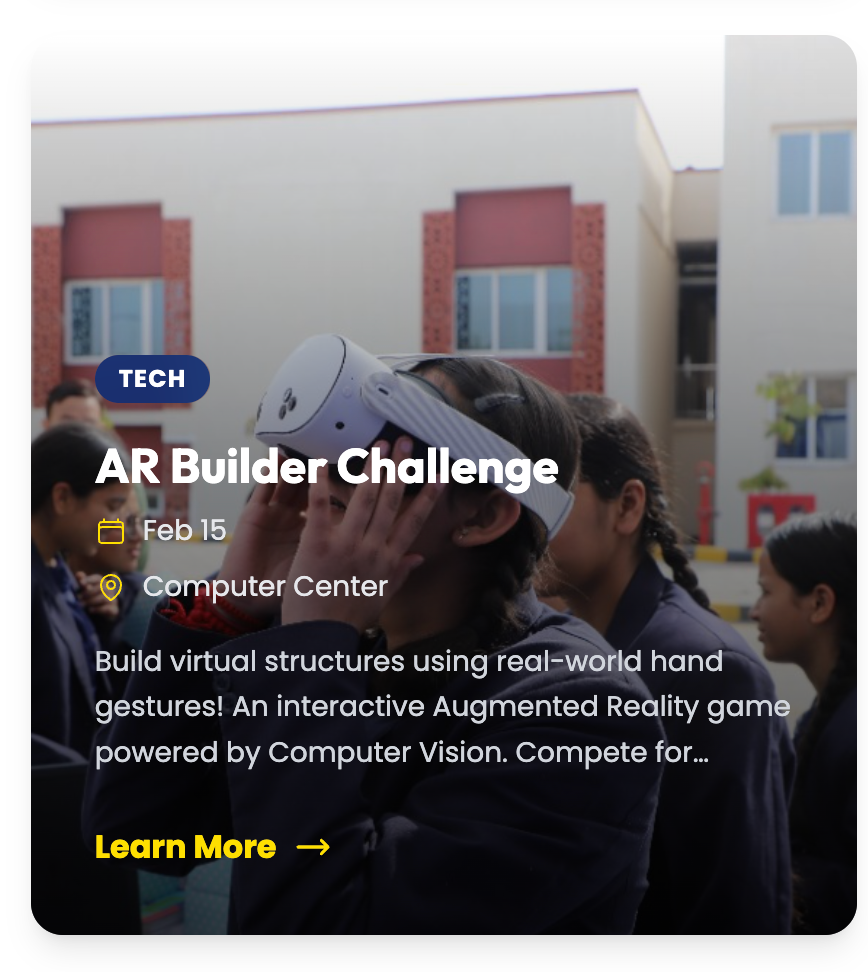
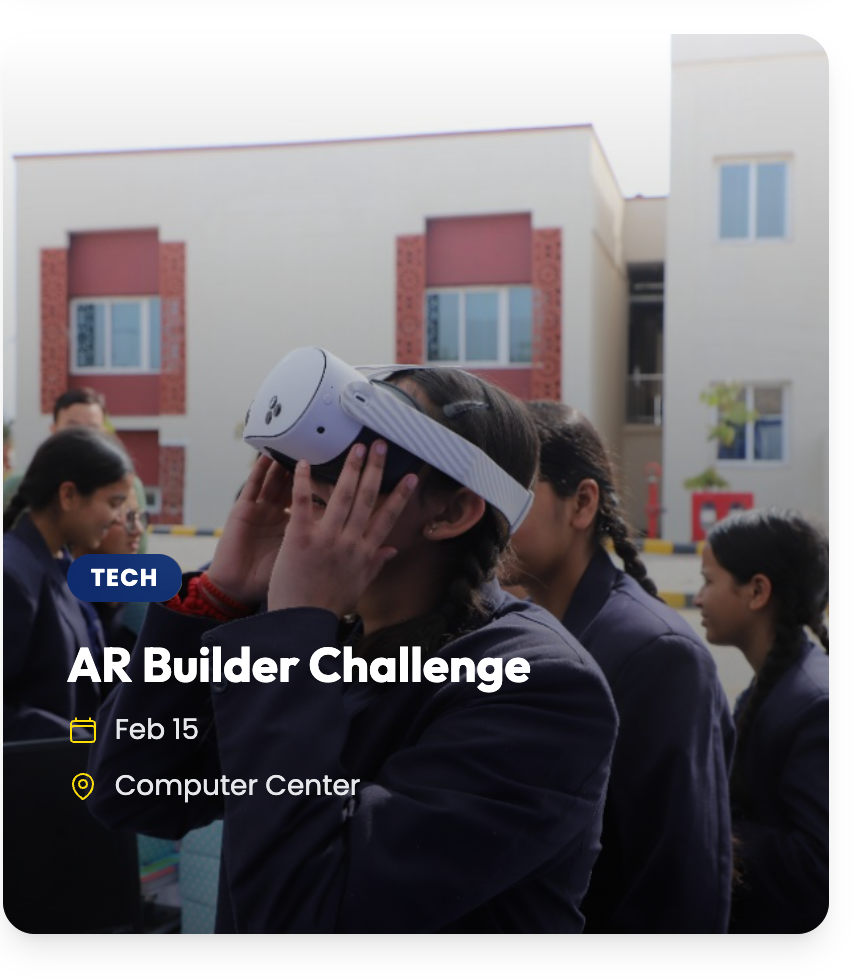
improved the event highlight section

diff --git a/src/components/Events.tsx b/src/components/Events.tsx
@@ -62,41 +62,45 @@ export default function Events() {
                             <div className="absolute inset-0 bg-gradient-to-t from-black/90 via-black/50 to-transparent opacity-60 transition-opacity duration-500 group-hover:opacity-80"></div>
 
                             {/* Content */}
-                            <div className="absolute bottom-0 left-0 right-0 p-8 text-white transition-transform duration-500 translate-y-[100px] group-hover:translate-y-0">
-
-                                <div className="mb-4 flex items-center gap-3">
-                                    <span className={`rounded-full px-3 py-1 text-xs font-bold uppercase tracking-wider backdrop-blur-md ${event.category === 'Arts' ? 'bg-brics-green/80 text-white' :
+                            {/* Content */}
+                            <div className="absolute bottom-0 left-0 right-0 p-8 text-white z-20">
+                                <div className="transform transition-transform duration-500 group-hover:-translate-y-2">
+                                    <div className="mb-3 flex items-center gap-3">
+                                        <span className={`rounded-full px-3 py-1 text-xs font-bold uppercase tracking-wider backdrop-blur-md ${event.category === 'Arts' ? 'bg-brics-green/80 text-white' :
                                             event.category === 'Tech' ? 'bg-brics-blue/80 text-white' :
                                                 'bg-brics-yellow/80 text-black'
-                                        }`}>
-                                        {event.category}
-                                    </span>
-                                </div>
-
-                                <h3 className="mb-2 text-2xl font-bold leading-tight">
-                                    {event.title}
-                                </h3>
-
-                                <div className="mb-4 space-y-2 text-sm text-gray-200">
-                                    <div className="flex items-center gap-2">
-                                        <CalendarIcon className="h-4 w-4 text-brics-yellow" />
-                                        <span>{event.date}</span>
+                                            }`}>
+                                            {event.category}
+                                        </span>
                                     </div>
-                                    <div className="flex items-center gap-2">
-                                        <MapPinIcon className="h-4 w-4 text-brics-yellow" />
-                                        <span>{event.location}</span>
+
+                                    <h3 className="mb-2 text-2xl font-bold leading-tight drop-shadow-md">
+                                        {event.title}
+                                    </h3>
+
+                                    <div className="mb-4 space-y-2 text-sm text-gray-200 font-medium">
+                                        <div className="flex items-center gap-2">
+                                            <CalendarIcon className="h-4 w-4 text-brics-yellow" />
+                                            <span>{event.date}</span>
+                                        </div>
+                                        <div className="flex items-center gap-2">
+                                            <MapPinIcon className="h-4 w-4 text-brics-yellow" />
+                                            <span>{event.location}</span>
+                                        </div>
                                     </div>
-                                </div>
 
-                                <div className="opacity-0 transition-opacity duration-500 delay-100 group-hover:opacity-100">
-                                    <p className="mb-6 text-sm leading-relaxed text-gray-300 line-clamp-3">
-                                        {event.description}
-                                    </p>
+                                    <div className="grid grid-rows-[0fr] opacity-0 transition-all duration-500 group-hover:grid-rows-[1fr] group-hover:opacity-100">
+                                        <div className="overflow-hidden">
+                                            <p className="mb-6 text-sm leading-relaxed text-gray-300 line-clamp-3">
+                                                {event.description}
+                                            </p>
 
-                                    <span className="flex items-center gap-2 font-bold text-brics-yellow hover:gap-3 transition-all">
-                                        Learn More
-                                        <ArrowRightIcon className="h-4 w-4" />
-                                    </span>
+                                            <span className="flex items-center gap-2 font-bold text-brics-yellow hover:gap-3 transition-all cursor-pointer">
+                                                Learn More
+                                                <ArrowRightIcon className="h-4 w-4" />
+                                            </span>
+                                        </div>
+                                    </div>
                                 </div>
                             </div>
                         </Link>
